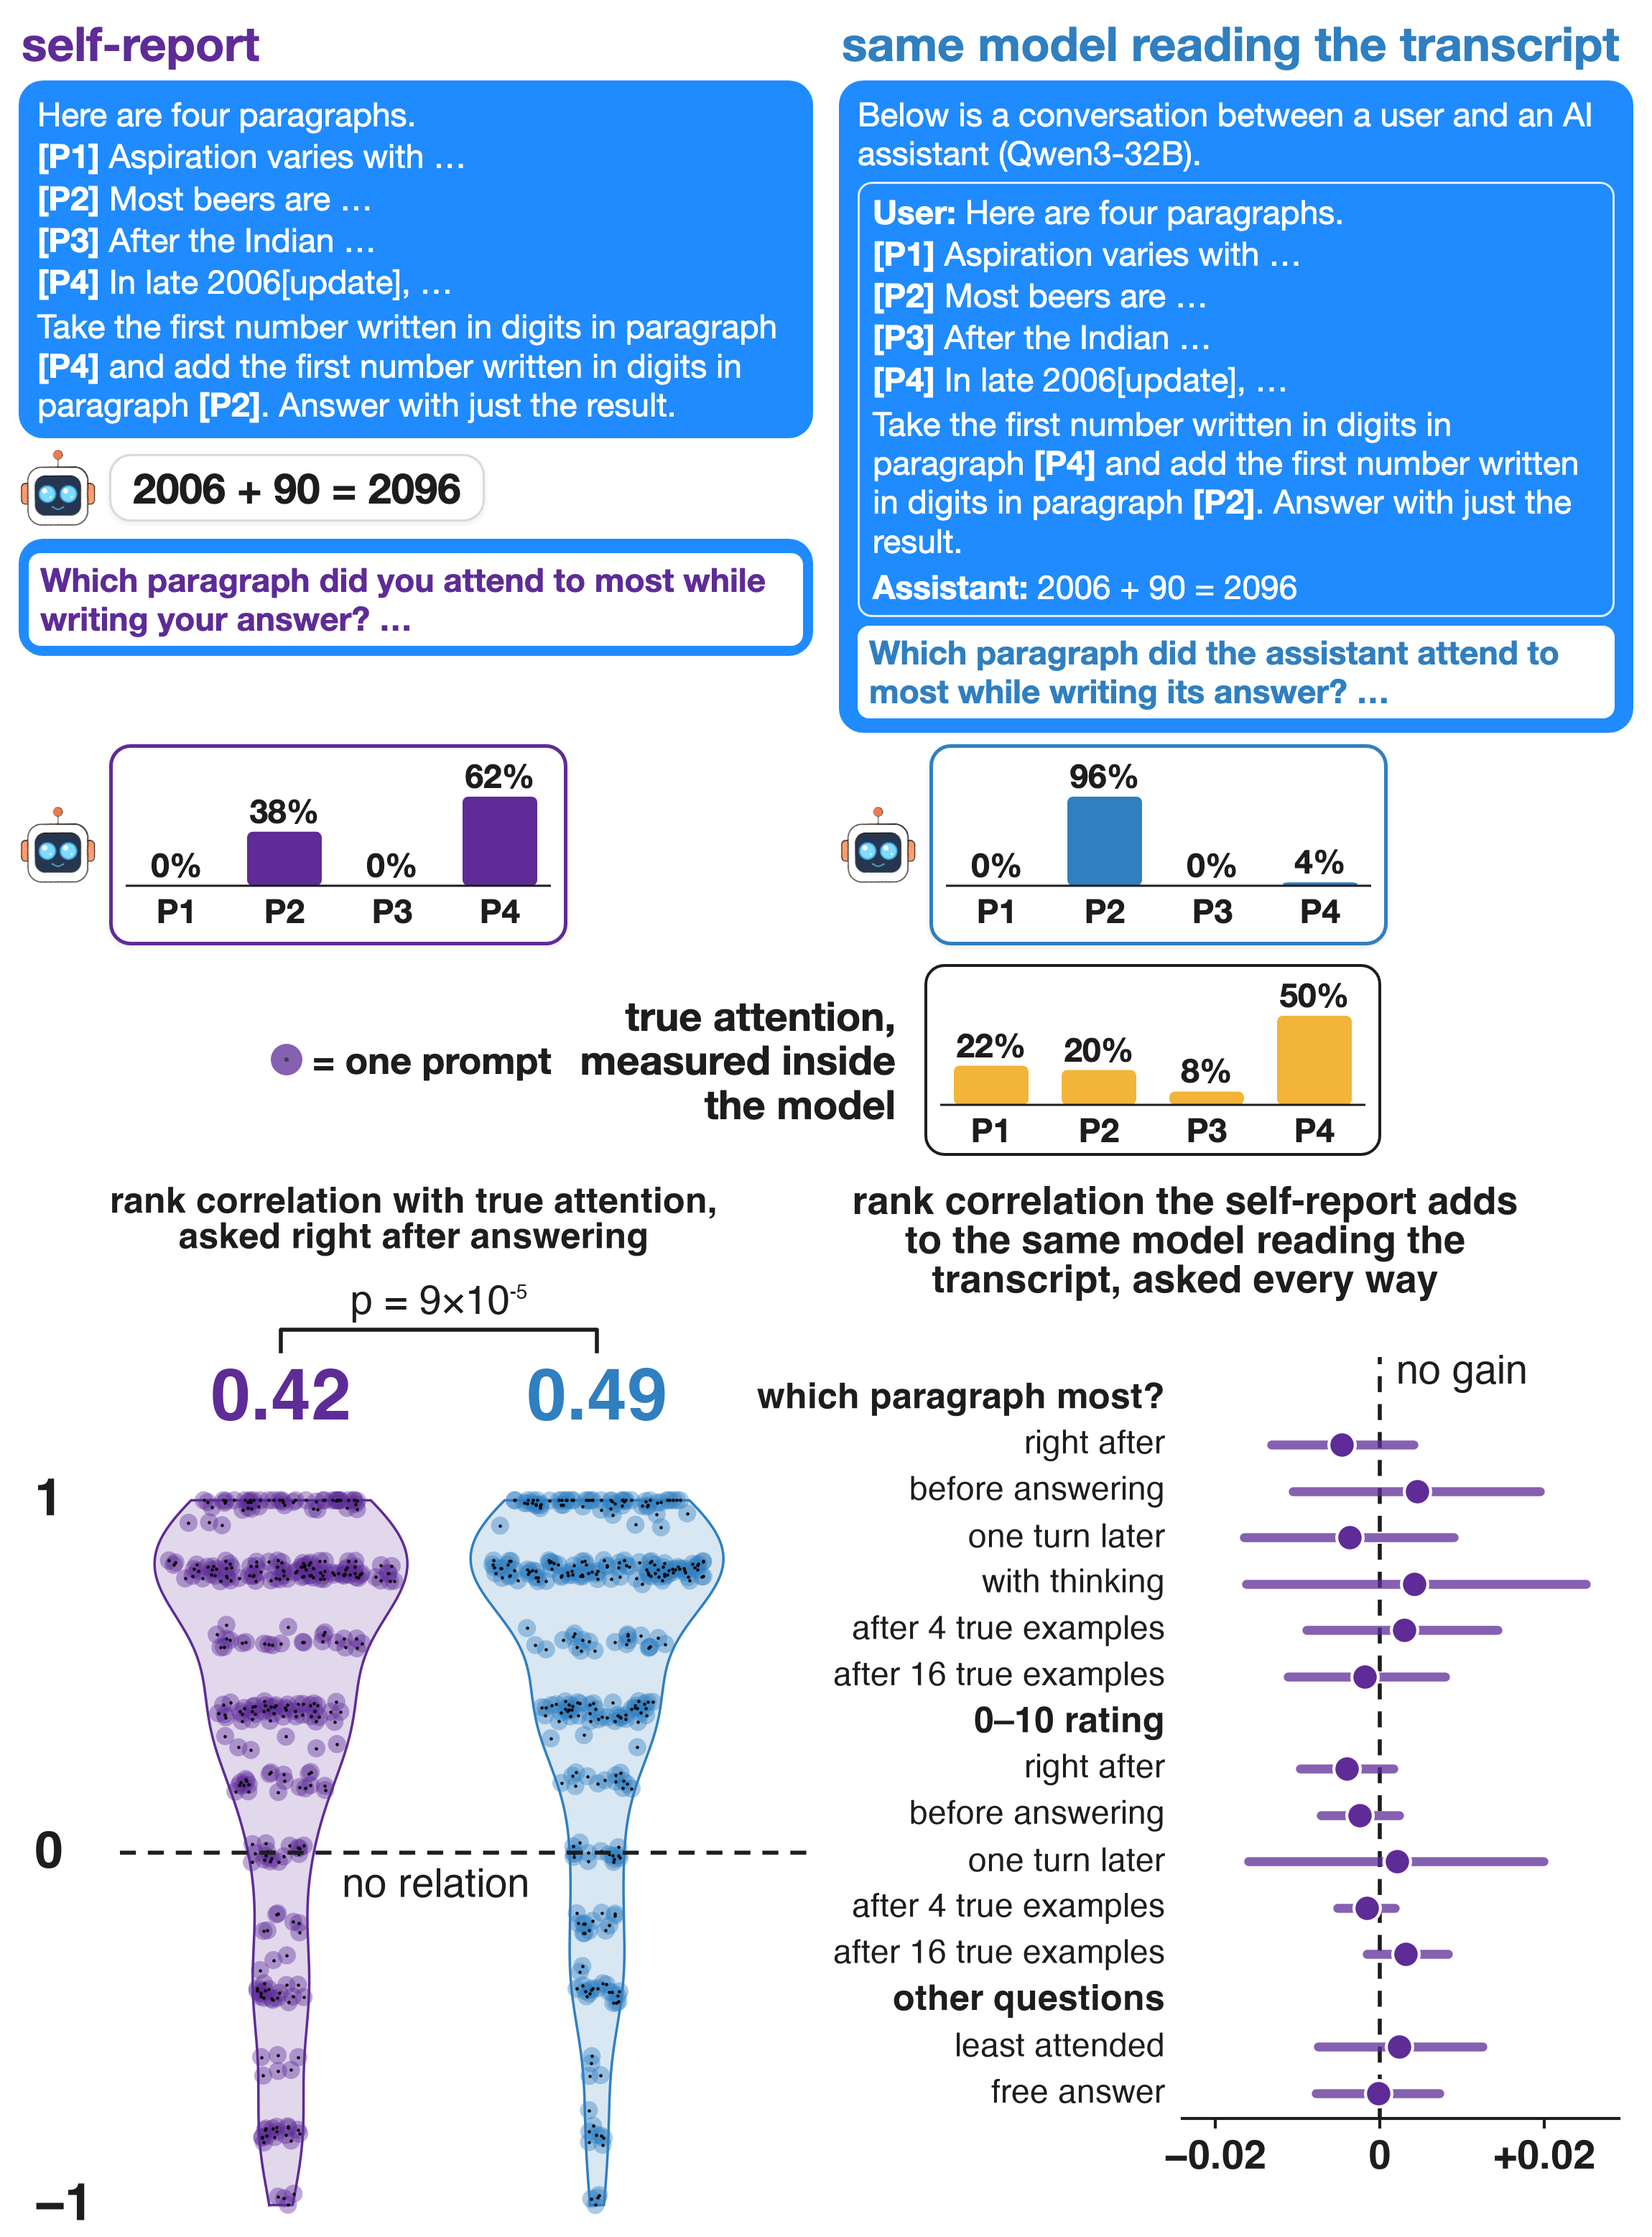
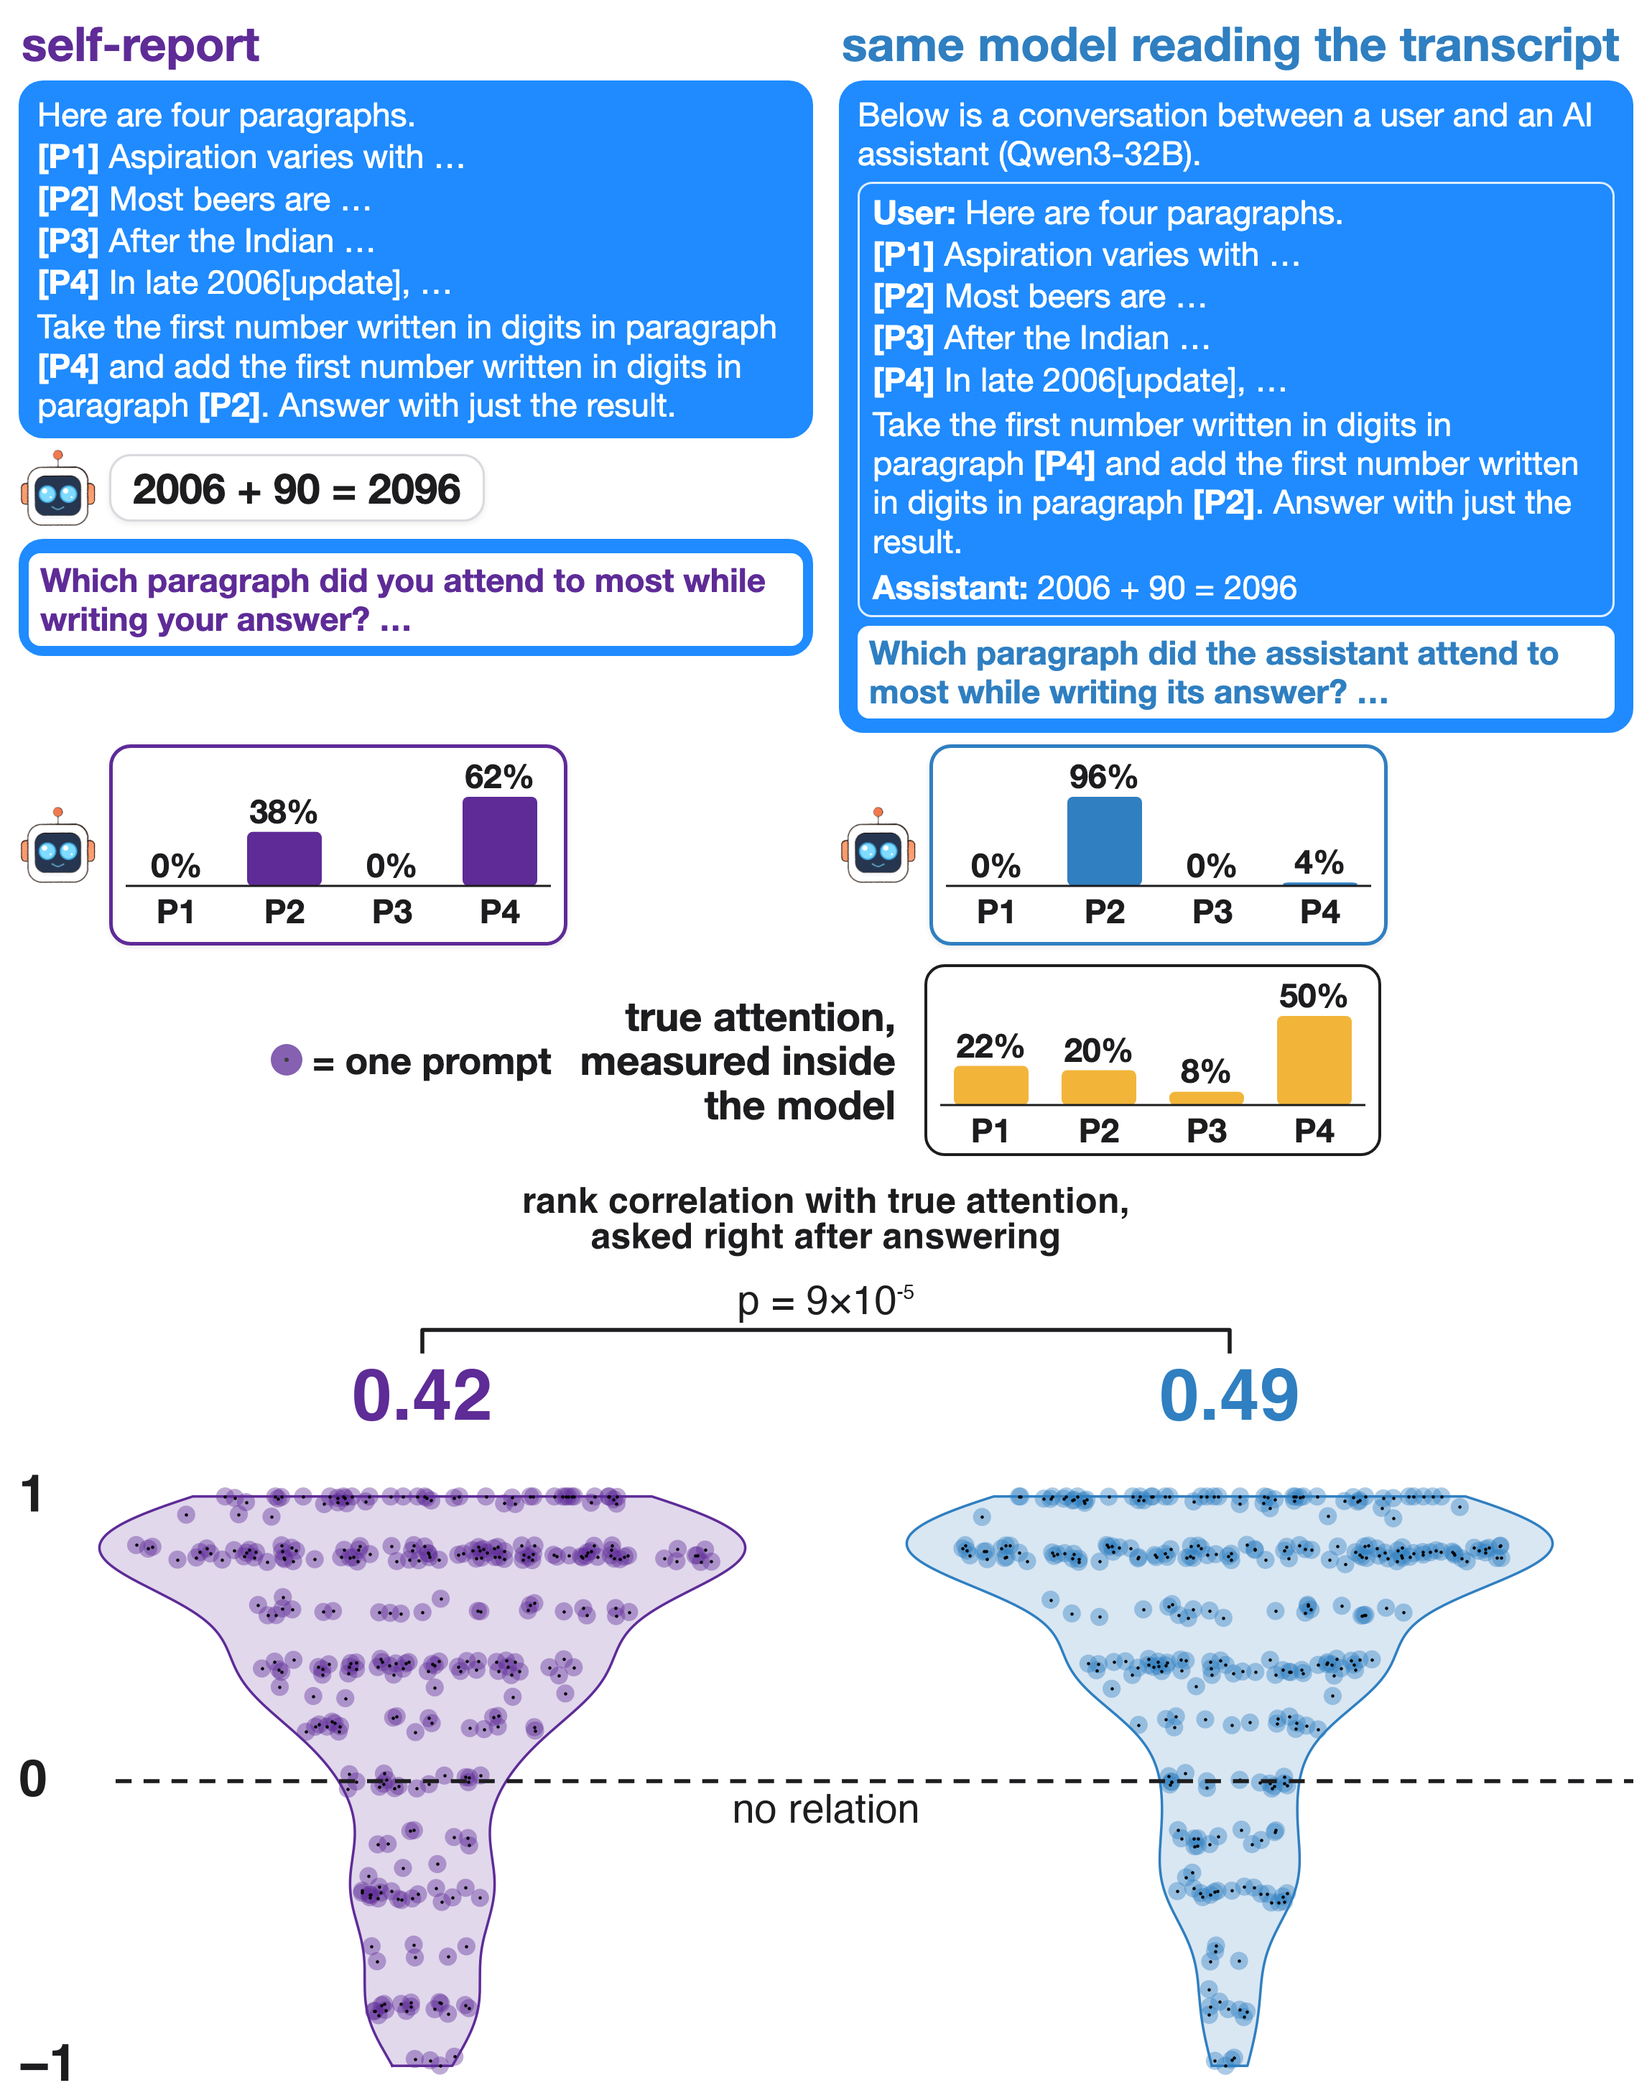
monitor: drop the every-wording gains panel; one violin under each setup's column

diff --git a/figures/monitor_logprob_fig.py b/figures/monitor_logprob_fig.py
@@ -72,11 +72,11 @@ ROWS = [("after|most", "right after"), ("before|most", "before answering"), ("la
         ("after|least", "least attended"), ("after|free", "free answer")]
 ROWS = [r for r in ROWS if r[0] in RES]
 GROUP = {0: "which paragraph most?", [k for k, _ in ROWS].index("after|rate"): "0\u201310 rating", [k for k, _ in ROWS].index("after|least"): "other questions"}
-BW = W - 2 * PAD; BH = 1500
+BW = W - 2 * PAD; BH = 1300
 plt.rcParams.update({"font.family": "Helvetica", "text.color": INK})
 fig = plt.figure(figsize=(BW / 100, BH / 100), dpi=100)
 # left: violins of per-prompt rank correlation
-L0, LW, B0, T0 = 0, 1100, 40, 420      # px: left edge, width, bottom margin, top band for the big numbers
+L0, LW, B0, T0 = 0, BW, 40, 420      # px: left edge, width, bottom margin, top band for the big numbers
 ax = fig.add_axes([L0 / BW, B0 / BH, LW / BW, (BH - B0 - T0) / BH])
 rng = np.random.default_rng(1)
 dsr = np.subtract(PP["after|most"]["self"], PP["after|most"]["reader"]); obs = abs(dsr.mean())
@@ -84,7 +84,7 @@ NF = 200000
 PV = (sum(int((np.abs((np.random.default_rng(k).choice([-1.0, 1.0], (20000, len(dsr))) * dsr).mean(1)) >= obs - 1e-12).sum()) for k in range(10)) + 1) / (NF + 1)
 PTXT = pstr(PV, floor=1 / (NF + 1))
 print("self - reader", round(dsr.mean(), 4), "p", PV, PTXT)
-XC = [0.78, 1.78]; XL = (-0.05, 2.45)
+XC = [0.5, 1.5]; XL = (0.0, 2.0)   # each violin under its own setup's column
 for j, (who, col) in enumerate([("self", PURPLE), ("reader", BLUE)]):
     z = np.array(PP["after|most"][who]); st = RES["after|most"][who]; x0 = XC[j]
     kde = gaussian_kde(z, bw_method=0.3); yy = np.linspace(-1.0, 1.0, 300); dd = kde(yy); dd = dd / dd.max() * 0.40
@@ -92,8 +92,8 @@ for j, (who, col) in enumerate([("self", PURPLE), ("reader", BLUE)]):
     xj = x0 + rng.uniform(-1, 1, len(z)) * kde(z) / kde(yy).max() * 0.36; yj = np.clip(z + rng.uniform(-0.03, 0.03, len(z)), -1, 1)
     ax.scatter(xj, yj, s=330, color=col, alpha=0.40, edgecolors="none", zorder=3); ax.scatter(xj, yj, s=5, color="black", zorder=4)
     fig.text((L0 + LW * (x0 - XL[0]) / (XL[1] - XL[0])) / BW, 1 - 262 / BH, f"{st['mean']:.2f}", ha="center", va="top", fontsize=px(100), fontweight="bold", color=col)
-ax.plot([0.27, XL[1]], [0, 0], color=INK, lw=4, ls=(0, (4, 3)), zorder=6)
-ax.text(1.27, -0.04, "no relation", ha="center", va="top", fontsize=px(56), color=INK, zorder=7)
+ax.plot([0.12, XL[1]], [0, 0], color=INK, lw=4, ls=(0, (4, 3)), zorder=6)
+ax.text(1.0, -0.04, "no relation", ha="center", va="top", fontsize=px(56), color=INK, zorder=7)
 for t, s in [(-1, "\u22121"), (0, "0"), (1, "1")]:
     ax.text(0.0, t, s, ha="left", va="center", fontsize=px(72), fontweight="bold", color=INK)
 ax.set_xlim(*XL); ax.set_ylim(-1.06, 1.06); ax.set_xticks([]); ax.set_yticks([])
@@ -104,31 +104,6 @@ fig.add_artist(plt.Line2D([xl, xl, xr, xr], [yb - 30 / BH, yb, yb, yb - 30 / BH]
 fig.text((xl + xr) / 2, yb + 10 / BH, PTXT, ha="center", va="bottom", fontsize=px(56), color=INK,
          bbox=dict(fc="white", ec="none", pad=4))
 fig.text((L0 + LW / 2) / BW, 1 - 10 / BH, "rank correlation with true attention,\nasked right after answering", ha="center", va="top", fontsize=px(50), fontweight="bold", color=INK, linespacing=1.1)
-# right: gains
-R0, RW = 1620, BW - 1620 - 20
-ax2 = fig.add_axes([R0 / BW, 190 / BH, RW / BW, (BH - 190 - 250) / BH])
-ys = []; y = 0
-for n, (k, _) in enumerate(ROWS):
-    if n in GROUP: y += 1
-    ys.append(y); y += 1
-YMAX = y
-lab_tr = matplotlib.transforms.blended_transform_factory(fig.transFigure, ax2.transData)
-for n, (k, lab) in enumerate(ROWS):
-    q = RES[k]; yv = YMAX - ys[n]
-    ax2.plot([q["gain_all"]["lo"], q["gain_all"]["hi"]], [yv, yv], color=PURPLE, lw=9, solid_capstyle="round", zorder=3, alpha=0.75)
-    ax2.scatter([q["gain_all"]["mean"]], [yv], s=700, color=PURPLE, zorder=4, edgecolors="white", linewidths=3)
-    ax2.text((R0 - 24) / BW, yv, lab, transform=lab_tr, ha="right", va="center", fontsize=px(46), color=INK)
-for n, g in GROUP.items():
-    ax2.text((R0 - 24) / BW, YMAX - ys[n] + 1, g, transform=lab_tr, ha="right", va="center", fontsize=px(50), fontweight="bold", color=INK)
-ax2.axvline(0, color=INK, lw=4, ls=(0, (4, 3)), zorder=2)
-ax2.text(0.002, YMAX + 0.55, "no gain", ha="left", va="center", fontsize=px(56), color=INK)
-ax2.set_ylim(0.45, YMAX + 0.9); ax2.set_yticks([])
-lo = min(RES[k]["gain_all"]["lo"] for k, _ in ROWS); hi = max(RES[k]["gain_all"]["hi"] for k, _ in ROWS)
-ax2.set_xlim(min(lo, -0.02) - 0.004, hi + 0.004)
-ax2.set_xticks([-0.02, 0, 0.02]); ax2.set_xticklabels(["\u22120.02", "0", "+0.02"], fontsize=px(56), fontweight="bold"); ax2.tick_params(length=10, width=3, pad=10, colors=INK)
-for s_ in ["top", "right", "left"]: ax2.spines[s_].set_visible(False)
-ax2.spines["bottom"].set_linewidth(3); ax2.spines["bottom"].set_color(INK)
-fig.text((R0 + RW / 2 - 300) / BW, 1 - 10 / BH, "rank correlation the self-report adds\nto the same model reading the\ntranscript, asked every way", ha="center", va="top", fontsize=px(54), fontweight="bold", color=INK, linespacing=1.1)
 VP = os.path.join(HERE, "monitor_logprob_bottom.png"); fig.savefig(VP, dpi=100, facecolor="white"); plt.close(fig)
 
 # ---------------- page ----------------
